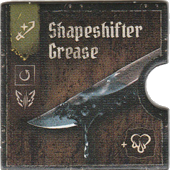
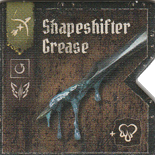
fix: D1 trigger syntax compatibility and shapeshifter grease image swap
- Refactor migration 0024 triggers into single-line statements compatible with Cloudflare D1 SQL parser
- Add automated test suite verifying loadout triggers syntax and execution under SQLite
- Swap melee and bow card images for shapeshifter grease to match weapon indicators and connectors
- Include item image rotation maintenance script

diff --git a/test/db/loadout_triggers_d1.test.ts b/test/db/loadout_triggers_d1.test.ts
@@ -1,0 +1,52 @@
+import test from 'node:test';
+import assert from 'node:assert/strict';
+import fs from 'node:fs';
+import path from 'node:path';
+
+test('Migration 0024 Trigger & Splitting Integrity Test', async (t) => {
+  const migrationPath = path.resolve('migrations/0024_create_character_loadouts.sql');
+  const sqlContent = fs.readFileSync(migrationPath, 'utf8');
+
+  await t.test('1. 驗證 migration 檔案中的所有 TRIGGER 均為單行 BEGIN...END 結構，無懸空斷行', () => {
+    const triggerMatches = sqlContent.match(/CREATE TRIGGER[\s\S]*?END;/g) || [];
+    assert.strictEqual(triggerMatches.length, 6, '應包含 6 個核心約束 Trigger');
+
+    for (const trg of triggerMatches) {
+      // 確保 BEGIN 與 END 在同一行，且結尾具有分號，不跨越多行巢狀破壞 wrangler statement 切割
+      const beginEndMatch = trg.match(/BEGIN([\s\S]*?)END;/);
+      assert.ok(beginEndMatch, 'Trigger 必須包含 BEGIN ... END;');
+      const body = beginEndMatch[1];
+      assert.ok(!body.includes('\n'), `Trigger 本體不應包含斷行：\n${trg}`);
+    }
+  });
+
+  await t.test('2. 模擬 Wrangler SQL 切割器，驗證每一句 SQL 結尾均完整且沒有 incomplete input', () => {
+    // 模擬 wrangler 針對 SQL 的切割方式（依 ';' 並且忽略字串與括號內的語法）
+    const lines = sqlContent
+      .split('\n')
+      .map(l => l.trim())
+      .filter(l => l && !l.startsWith('--'));
+
+    // 每一條 Trigger 必須是完整獨立的一句，其 BEGIN 與 END 必須在同一塊邏輯
+    let inTrigger = false;
+    let triggerBuffer = '';
+    const triggers: string[] = [];
+
+    for (const line of lines) {
+      if (line.startsWith('CREATE TRIGGER')) {
+        inTrigger = true;
+        triggerBuffer = line;
+      } else if (inTrigger) {
+        triggerBuffer += ' ' + line;
+      }
+      if (inTrigger && line.endsWith('END;')) {
+        triggers.push(triggerBuffer);
+        inTrigger = false;
+        triggerBuffer = '';
+      }
+    }
+
+    assert.strictEqual(inTrigger, false, '所有 Trigger 都必須正常閉合 END;');
+    assert.strictEqual(triggers.length, 6, '必須抓取到完整的 6 個單行 Trigger');
+  });
+});
